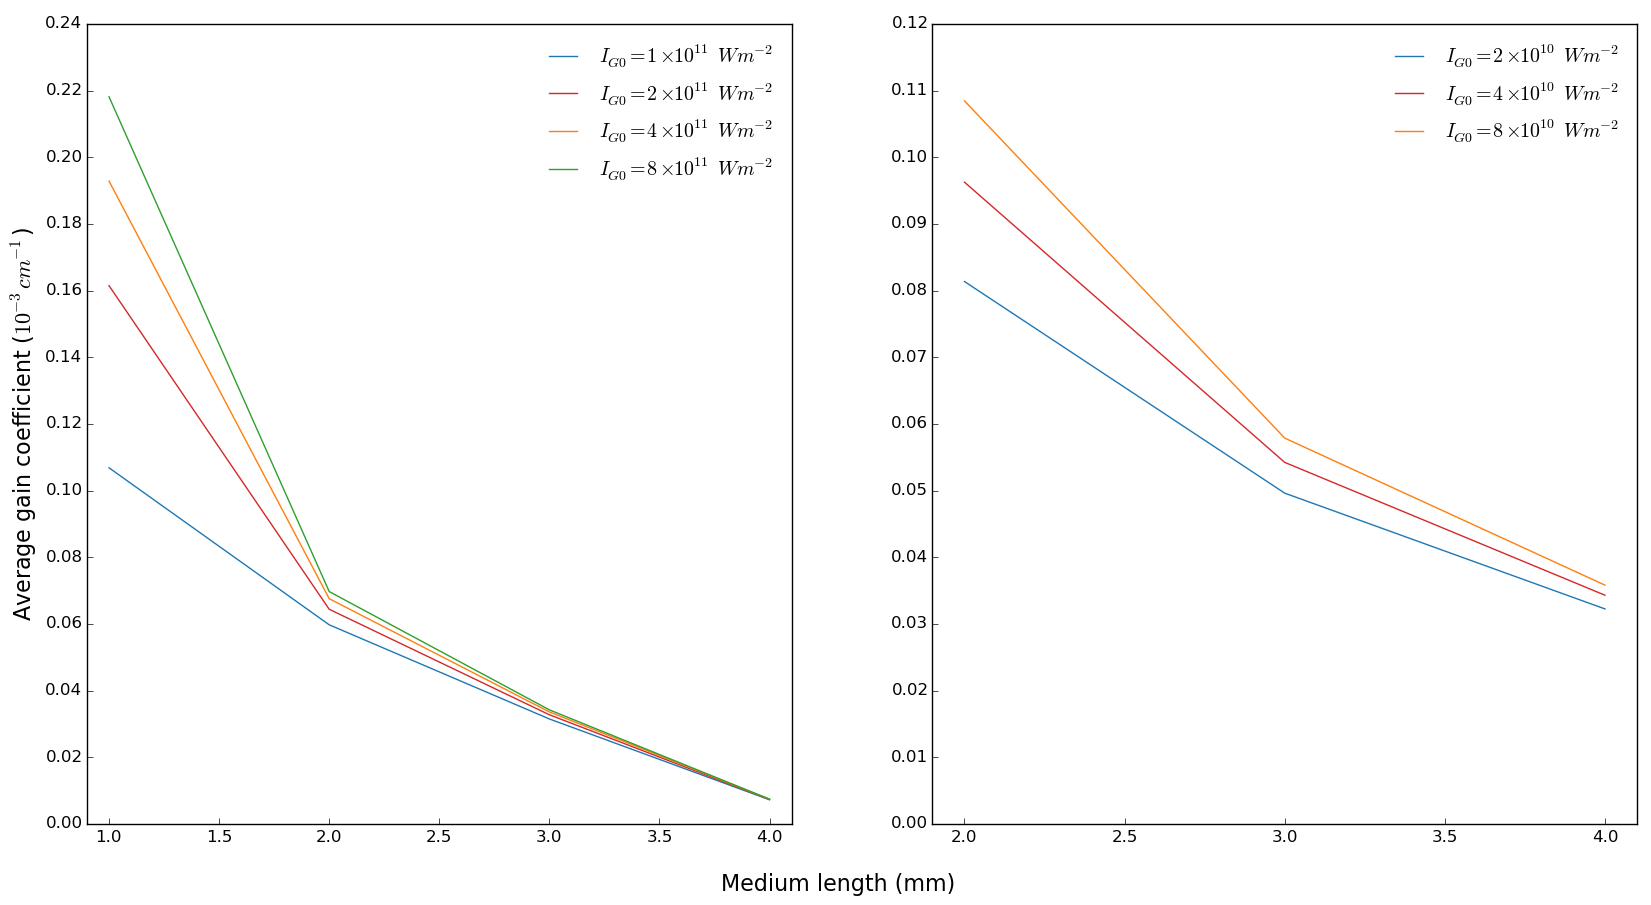
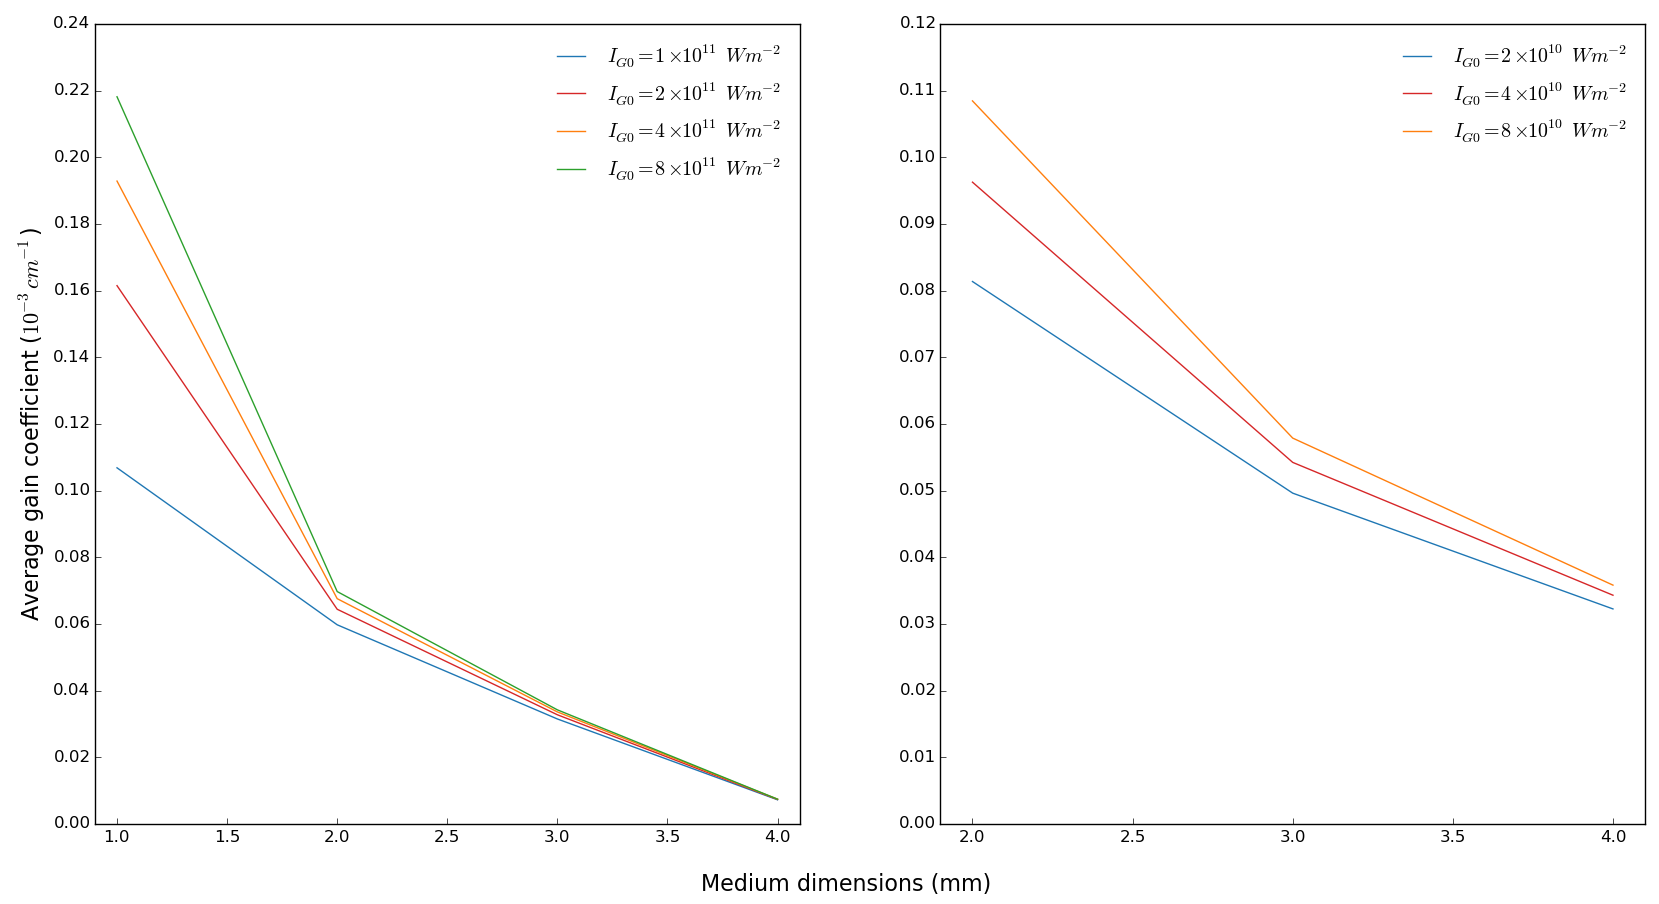
Change xlabel to 'dimension' not 'length' for 2D plot and comparisoin plot

diff --git a/.graphs/18Apr/gain2D.py b/.graphs/18Apr/gain2D.py
@@ -46,7 +46,7 @@ ax.plot([2, 3, 4], [n_L2_4IG0*1e3, n_L3_4IG0*1e3, n_L4_4IG0*1e3], color=tableau2
 ax.plot([2, 3, 4], [n_L2_8IG0*1e3, n_L3_8IG0*1e3, n_L4_8IG0*1e3], color=tableau20[2], label=r'$I_{G0}=8\times 10^{10}\/Wm^{-2}$')
 ax.set_xlim((1.9, 4.1))
 #ax.set_ylim((0, 0.11))
-ax.set_xlabel('Medium length (mm)', fontsize=16)
+ax.set_xlabel('Medium dimensions (mm)', fontsize=16)
 ax.set_ylabel('Average gain coefficient ($10^{-3}cm^{-1}$)', fontsize=16)
 
 lg = ax.legend()

diff --git a/.graphs/18Apr/gain1D_2D.py b/.graphs/18Apr/gain1D_2D.py
@@ -111,7 +111,7 @@ lg.draw_frame(False)
 ax[1].xaxis.set_ticks_position('bottom')
 ax[1].yaxis.set_ticks_position('left')
 
-fig.text(0.5, 0.04, 'Medium length (mm)', ha='center', va='center',fontsize=16)
+fig.text(0.5, 0.04, 'Medium dimensions (mm)', ha='center', va='center',fontsize=16)
 
 fig.savefig('Averagegain.png')
 #plt.show()
